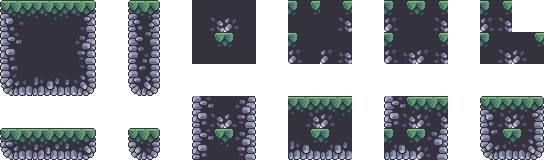
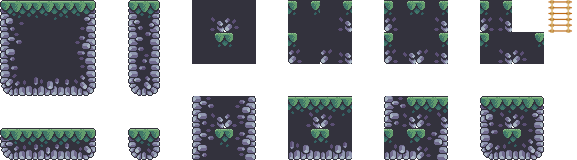
add ladder + refactoring

diff --git a/core/src/ru/samsung/gamestudio/objects/characters/Player.java b/core/src/ru/samsung/gamestudio/objects/characters/Player.java
@@ -28,6 +28,7 @@ public class Player extends PhysicalActors {
     private int leftLives;
     boolean needToBeSwapped;
     private boolean hasTouchedFloor;
+    private boolean onLadder;
 
     private final OnDamageListener onDamageListener;
     private final OnScoreEarnedListener onScoreEarnedListener;
@@ -106,7 +107,7 @@ public class Player extends PhysicalActors {
     public void moveLeft() {
         if (!attack.isAnimationFinished(timer) && state == State.ATTACKING) return;
 
-        body.applyForceToCenter(new Vector2(-20f, 0), true);
+        body.applyForceToCenter(new Vector2(-10f, 0), true);
         needToBeSwapped = true;
         state = State.RUNNING;
     }
@@ -114,12 +115,18 @@ public class Player extends PhysicalActors {
     public void moveRight() {
         if (!attack.isAnimationFinished(timer) && state == State.ATTACKING) return;
 
-        body.applyForceToCenter(new Vector2(20f, 0), true);
+        body.applyForceToCenter(new Vector2(10f, 0), true);
         needToBeSwapped = false;
         state = State.RUNNING;
     }
 
     public void moveUp() {
+
+        if (onLadder) {
+            body.setLinearVelocity(body.getLinearVelocity().x, 2.5f);
+            return;
+        }
+
         if (!hasTouchedFloor) return;
 
         body.applyForceToCenter(new Vector2(0, 300f), true);
@@ -150,9 +157,17 @@ public class Player extends PhysicalActors {
             } else {
                 onScoreEarnedListener.onScoreEarned(KILLED_ENEMY_VALUE);
             }
-        }
-        if (hitObjectBits == 1) {
+        } else if (hitObjectBits == FLOOR_BIT) {
             hasTouchedFloor = true;
+        }
+        if (hitObjectBits == LADDER_BIT) onLadder = true;
+        // System.out.println("onLadder: " + onLadder);
+    }
+
+    @Override
+    public void release(short hitObjectBits) {
+        if (hitObjectBits == LADDER_BIT) {
+            onLadder = false;
         }
     }
 
@@ -169,5 +184,7 @@ public class Player extends PhysicalActors {
                 || state == State.JUMPING && jump.isAnimationFinished(timer))
             state = State.IDLE;
     }
+
+
 
 }

diff --git a/core/src/ru/samsung/gamestudio/world/ContactManager.java b/core/src/ru/samsung/gamestudio/world/ContactManager.java
@@ -23,7 +23,8 @@ public class ContactManager implements ContactListener {
                 || (GameSettings.PLAYER_BIT | GameSettings.EXIT_BIT) == cDef
                 || (GameSettings.PLAYER_BIT | GameSettings.PIT_BIT) == cDef
                 || (GameSettings.PLAYER_BIT | GameSettings.COIN_BIT) == cDef
-                || (GameSettings.PLAYER_BIT | GameSettings.FLOOR_BIT) == cDef) {
+                || (GameSettings.PLAYER_BIT | GameSettings.FLOOR_BIT) == cDef
+                || (GameSettings.PLAYER_BIT | GameSettings.LADDER_BIT) == cDef) {
 
             ((Hittable) fixA.getUserData()).hit(cDef2);
             ((Hittable) fixB.getUserData()).hit(cDef1);
@@ -34,7 +35,15 @@ public class ContactManager implements ContactListener {
 
     @Override
     public void endContact(Contact contact) {
+        Fixture fixA = contact.getFixtureA();
+        Fixture fixB = contact.getFixtureB();
 
+        if (fixA.getUserData() instanceof Hittable) {
+            ((Hittable) fixA.getUserData()).release(fixB.getFilterData().categoryBits);
+        }
+        if (fixB.getUserData() instanceof Hittable) {
+            ((Hittable) fixB.getUserData()).release(fixA.getFilterData().categoryBits);
+        }
     }
 
     @Override

diff --git a/core/src/ru/samsung/gamestudio/world/B2WorldManager.java b/core/src/ru/samsung/gamestudio/world/B2WorldManager.java
@@ -8,11 +8,9 @@ import com.badlogic.gdx.physics.box2d.Body;
 import com.badlogic.gdx.physics.box2d.Box2D;
 import com.badlogic.gdx.physics.box2d.World;
 import com.badlogic.gdx.scenes.scene2d.Actor;
-import ru.samsung.gamestudio.objects.characters.FinishLine;
+import ru.samsung.gamestudio.objects.blocks.Ladder;
+import ru.samsung.gamestudio.objects.characters.*;
 import ru.samsung.gamestudio.objects.blocks.PitBlock;
-import ru.samsung.gamestudio.objects.characters.Coin;
-import ru.samsung.gamestudio.objects.characters.Enemy;
-import ru.samsung.gamestudio.objects.characters.Player;
 import ru.samsung.gamestudio.objects.blocks.StaticBlock;
 import ru.samsung.gamestudio.utils.*;
 import ru.samsung.gamestudio.world.listeners.*;
@@ -96,6 +94,11 @@ public class B2WorldManager {
                 case "coin": {
                     Rectangle rect = object.getRectangle();
                     coinsList.add(new Coin(world, rect, onScoreEarnedListener, onRemoveBodyListener));
+                    break;
+                }
+                case "ladder": {
+                    Rectangle rect = object.getRectangle();
+                    new Ladder(world, rect);
                     break;
                 }
             }

diff --git a/core/src/ru/samsung/gamestudio/screens/GameScreen.java b/core/src/ru/samsung/gamestudio/screens/GameScreen.java
@@ -112,13 +112,13 @@ public class GameScreen extends BaseScreen {
 
         if (session.state == GameState.PLAYING) {
 
-            if (Gdx.input.isKeyJustPressed(Input.Keys.UP)) {
+            if (Gdx.input.isKeyPressed(Input.Keys.UP)) {
                 b2WorldManager.player.moveUp();
-            } else if (Gdx.input.isKeyPressed(Input.Keys.LEFT)) {
+            } if (Gdx.input.isKeyPressed(Input.Keys.LEFT)) {
                 b2WorldManager.player.moveLeft();
-            } else if (Gdx.input.isKeyPressed(Input.Keys.RIGHT)) {
+            } if (Gdx.input.isKeyPressed(Input.Keys.RIGHT)) {
                 b2WorldManager.player.moveRight();
-            } else if (Gdx.input.isKeyPressed(Input.Keys.F)) {
+            } if (Gdx.input.isKeyPressed(Input.Keys.F)) {
                 b2WorldManager.player.attack();
             }
 

diff --git a/core/src/ru/samsung/gamestudio/objects/blocks/Ladder.java b/core/src/ru/samsung/gamestudio/objects/blocks/Ladder.java
@@ -1,0 +1,21 @@
+package ru.samsung.gamestudio.objects.blocks;
+
+import com.badlogic.gdx.math.Rectangle;
+import com.badlogic.gdx.physics.box2d.BodyDef;
+import com.badlogic.gdx.physics.box2d.World;
+
+import static ru.samsung.gamestudio.game.GameSettings.LADDER_BIT;
+
+public class Ladder extends StaticBlock {
+
+    public Ladder(World world, Rectangle bounds) {
+        super(world, bounds, LADDER_BIT);
+        body.setType(BodyDef.BodyType.StaticBody);
+        fixture.setSensor(true);
+    }
+
+    @Override
+    public void hit(short hitObjectBits) {
+
+    }
+}

diff --git a/core/src/ru/samsung/gamestudio/objects/characters/PhysicalActors.java b/core/src/ru/samsung/gamestudio/objects/characters/PhysicalActors.java
@@ -34,11 +34,14 @@ public abstract class PhysicalActors extends Image implements Hittable {
         fixture = body.createFixture(fixtureDef);
         fixture.setUserData(this);
 
-        body.setLinearDamping(5);
+        body.setLinearDamping(2);
         body.setTransform((bounds.getX() + bounds.getWidth() / 2) / SCALE,
                 (bounds.getY() + bounds.getHeight() / 2) / SCALE, 0);
         circleShape.dispose();
     }
 
+    @Override
+    public void release(short hitObjectBits) {
 
+    }
 }

diff --git a/core/src/ru/samsung/gamestudio/utils/LevelManager.java b/core/src/ru/samsung/gamestudio/utils/LevelManager.java
@@ -9,7 +9,7 @@ public class LevelManager {
     private final static Level[] levelsArray = new Level[] {
             new Level("First fight", "maps/level1.tmx"),
             new Level("New enemies", "maps/level2.tmx"),
-            new Level("Empty test", "maps/level2.tmx"),
+            new Level("Wow, ladder", "maps/level3.tmx"),
             new Level("Empty test", "maps/level2.tmx"),
             new Level("Empty test", "maps/level2.tmx"),
             new Level("Empty test", "maps/level2.tmx"),

diff --git a/core/src/ru/samsung/gamestudio/game/GameSettings.java b/core/src/ru/samsung/gamestudio/game/GameSettings.java
@@ -27,5 +27,6 @@ public class GameSettings {
     public static final short EXIT_BIT = 16;
     public static final short PIT_BIT = 32;
     public static final short COIN_BIT = 64;
+    public static final short LADDER_BIT = 128;
 
 }

diff --git a/core/src/ru/samsung/gamestudio/objects/blocks/StaticBlock.java b/core/src/ru/samsung/gamestudio/objects/blocks/StaticBlock.java
@@ -18,6 +18,10 @@ public class StaticBlock extends BaseBlock implements Hittable {
     @Override
     public void hit(short hitObjectBits) {
 
+    }
+
+    @Override
+    public void release(short releaseBits) {
 
     }
 }

diff --git a/core/src/ru/samsung/gamestudio/objects/Hittable.java b/core/src/ru/samsung/gamestudio/objects/Hittable.java
@@ -1,5 +1,7 @@
 package ru.samsung.gamestudio.objects;
 
 public interface Hittable {
+
     void hit(short hitObjectBits);
+    void release(short hitObjectBits);
 }
